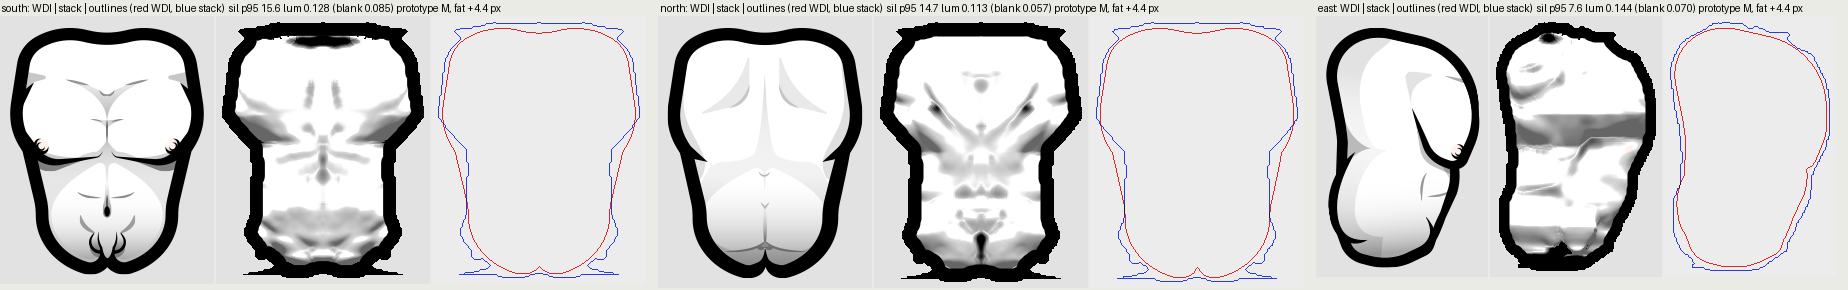
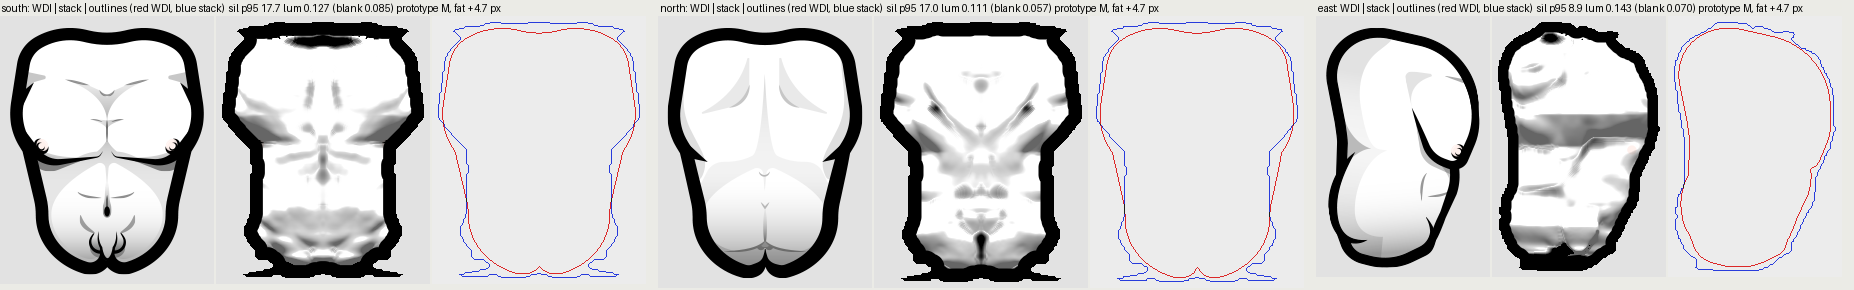
Body 3D: trunk bones shown and counted from BodyParts3D (spine, rib cage, clavicle, scapula, hip bone); bone board; prototype M v8
The simple solids stay as the hidden support of the viscera and of the hand-made sheets; HAND_MUSCLES=1 brings the hand skeleton back. Femur stays hand-made (leg). M v8: bone 12.3 %, muscle 19.3 %, fat 22.8 %, viscera 40.5 % of the torso mass.

diff --git a/Art/work/transfer-proto/fable-crack/bp3d_torso.py b/Art/work/transfer-proto/fable-crack/bp3d_torso.py
@@ -38,6 +38,39 @@ GROUPS = {
 }
 
 
+# bones of the trunk (2026-11-17, Virginie: 'pareil pour les os'): display groups -> name words of BodyParts3D bones
+BONES = {
+    "spine (BodyParts3D)": ("thoracic vertebra", "lumbar vertebra", "sacrum", "coccyx"),
+    "rib cage (BodyParts3D)": (" rib", "costal cartilage", "body of sternum", "manubrium", "xiphoid process"),
+    "clavicle (BodyParts3D)": ("clavicle",),
+    "scapula (BodyParts3D)": ("scapula",),
+    "hip bone (BodyParts3D)": ("hip bone",),
+}
+
+
+def build_bones(O, T, out):
+    import bp3d_import as bi
+    B = bi.load()
+    for key, words in BONES.items():
+        V, F, off = [], [], 0
+        for fj, (n, v, f) in B.items():
+            if "left" in n.split() or not any(wd in n or n.endswith(wd.strip()) for wd in words):
+                continue
+            v = bi.thorax_width(T(O(v)))
+            if any(wd in n for wd in ("hip bone", "sacrum", "coccyx")):
+                v = bi.pelvis_width(v)
+            V.append(v); F.append(f + off); off += len(v)
+        if V:
+            k = "bone_" + key.split(" (")[0].replace(" ", "_")
+            out[f"v_{k}"] = np.concatenate(V); out[f"f_{k}"] = np.concatenate(F)
+            v = out[f"v_{k}"]
+            print(f"  {key:36s} {len(V)} bones  x {v[:, 0].min():.0f}..{v[:, 0].max():.0f}  rows {v[:, 1].min():.0f}..{v[:, 1].max():.0f}  z {v[:, 2].min():.0f}..{v[:, 2].max():.0f}")
+
+
+def bone_prim(key):
+    return prim("bone_" + key.split(" (")[0].replace(" ", "_"))
+
+
 def build():
     import bp3d_import as bi
     O, T = bi.frame()
@@ -66,6 +99,7 @@ def build():
             out[f"v_{k}"] = np.concatenate(V); out[f"f_{k}"] = np.concatenate(F)
             v = out[f"v_{k}"]
             print(f"  {key:36s} {len(names)} parts  x {v[:, 0].min():.0f}..{v[:, 0].max():.0f}  rows {v[:, 1].min():.0f}..{v[:, 1].max():.0f}  z {v[:, 2].min():.0f}..{v[:, 2].max():.0f}")
+    build_bones(O, T, out)
     np.savez_compressed(PATH, **out)
     print(PATH)
 

diff --git a/Art/work/transfer-proto/fable-crack/stack3d.py b/Art/work/transfer-proto/fable-crack/stack3d.py
@@ -499,10 +499,21 @@ def build_male(G, T, prm=MALE, ty=None):
         S.add(f"iliac wing {i}", "bone", tri(a, b, acet, 2.4), colour=BONE, show=False)
     S.add("sacrum", "bone", tri((-13, sac0, 199.5), (13, sac0, 199.5), (0, sac1, 203), 4.5), colour=BONE, show=False)
     S.add("coccyx", "bone", cone((0, sac1, 203), (0, coc, 214), 3.2, 2.0), colour=BONE, show=False)
-    S.add("pubis", "bone", tube([pub, (18, 394, 276), acet], [5.0, 4.6, 6.0]), colour=BONE)
-    S.add("ischium", "bone", tube([acet, isch, (6, 406, 262), pub], [6.0, 6.5, 3.6, 4.0]), colour=BONE)
+    # BodyParts3D bones (2026-11-17, Virginie: 'pareil pour les os'): what is shown and counted as bone is the library's
+    # spine, rib cage, clavicle, scapula and hip bone (bp3d_torso.BONES); the simple solids above stay the support the
+    # viscera and the hand-made sheets are laid on. HAND_MUSCLES=1 brings the hand-drawn skeleton back.
+    import bp3d_torso
+    lib_bones = os.environ.get("HAND_MUSCLES", "0") != "1" and bp3d_torso.PATH.exists()
+    S.add("pubis", "bone", tube([pub, (18, 394, 276), acet], [5.0, 4.6, 6.0]), colour=BONE, show=not lib_bones)
+    S.add("ischium", "bone", tube([acet, isch, (6, 406, 262), pub], [6.0, 6.5, 3.6, 4.0]), colour=BONE, show=not lib_bones)
     S.add("femur", "bone", tube([acet, (47, 388, 247), (52, 391, 245), (46, 405, 247)], [11.0, 7.0, 7.5, 5.5]), colour=BONE)
-    skeleton_detail(S, prm, fsp, ca, cf, cb)                   # what the viewer shows of the spine, the cage and the pelvis
+    if lib_bones:
+        for key in bp3d_torso.BONES:
+            pb = bp3d_torso.bone_prim(key)
+            if pb is not None:
+                S.show(key, pb)
+    else:
+        skeleton_detail(S, prm, fsp, ca, cf, cb)               # what the viewer shows of the spine, the cage and the pelvis
     S.mark("bone")
 
     # ---- viscera

diff --git a/Art/work/transfer-proto/fable-crack/musclelist.py b/Art/work/transfer-proto/fable-crack/musclelist.py
@@ -82,3 +82,40 @@ def main():
 
 if __name__ == "__main__":
     main()
+
+
+def bones(h=2.0):
+    """Same board for the bones shown and counted (bp3d_torso.BONES, or the hand skeleton with HAND_MUSCLES=1)."""
+    G = s.Grid(h)
+    S = s.build_male(G, s.Target("Male"))
+    base = views(G, S.d, (250, 250, 248))
+    groups = {}
+    for name, layer, colour, sl, a in S.parts:
+        if layer == "bone" and a is not None:
+            groups.setdefault(name, []).append((sl, a))
+    tiles = []
+    for i, (name, items) in enumerate(groups.items(), 1):
+        f = G.full()
+        for sl, a in items:
+            f[sl] = np.minimum(f[sl], a)
+        ims = []
+        for b, m in zip(base, views(G, f, (200, 190, 160))):
+            out = np.where((np.abs(b.astype(int) - BG).sum(-1) < 4)[..., None], BG, 0.55 * b + 0.45 * 236).astype(np.uint8)
+            hit = np.abs(m.astype(int) - BG).sum(-1) >= 4
+            out[hit] = m[hit]
+            ims.append(Image.fromarray(out))
+        tiles.append((f"{i}. {name}", ims))
+    tw = sum(im.width for im in tiles[0][1]) + 12; th = max(im.height for im in tiles[0][1]) + 22
+    cols = 3
+    out = Image.new("RGB", (cols * tw, -(-len(tiles) // cols) * th + 22), (244, 242, 238)); dr = ImageDraw.Draw(out)
+    font = ImageFont.truetype("C:/Windows/Fonts/arial.ttf", 13)
+    dr.text((4, 4), "Os du buste : face | côté | dos, en transparence. Gris pâle = le reste du buste.", fill=(0, 0, 0), font=font)
+    for j, (lab, ims) in enumerate(tiles):
+        x0 = (j % cols) * tw; y0 = 22 + (j // cols) * th
+        dr.text((x0 + 4, y0 + 2), lab, fill=(0, 0, 0), font=font)
+        x = x0 + 2
+        for im in ims:
+            out.paste(im, (x, y0 + 18)); x += im.width + 4
+    path = s.CAPT / "2026-11-17_bones.png"
+    out.save(path)
+    print(path)
